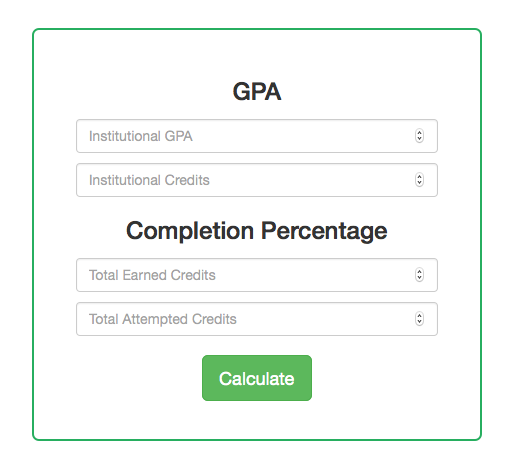
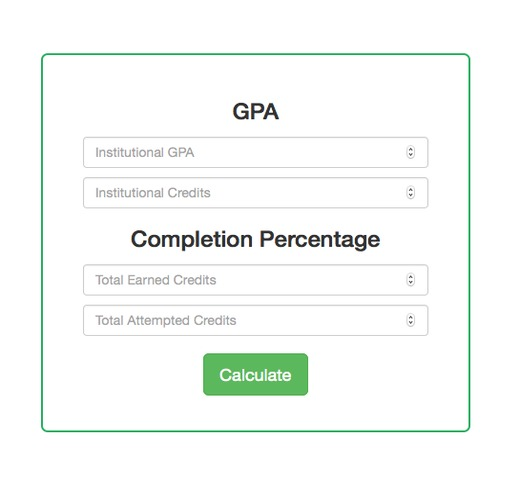
resize images

diff --git a/_includes/portfolio.html b/_includes/portfolio.html
@@ -4,7 +4,7 @@
             <div class="row">
                 <div class="col-lg-12 text-center">
                     <h2 class="section-heading">Projects</h2>
-                    <h3 class="section-subheading text-muted">Lorem ipsum dolor sit amet consectetur.</h3>
+                    <!-- <h3 class="section-subheading text-muted">Lorem ipsum dolor sit amet consectetur.</h3> -->
                 </div>
             </div>
             <div class="row">
